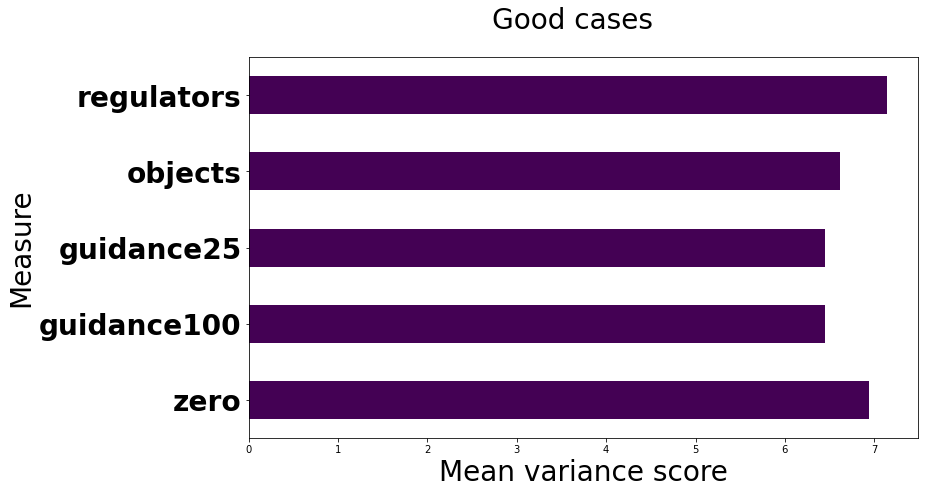
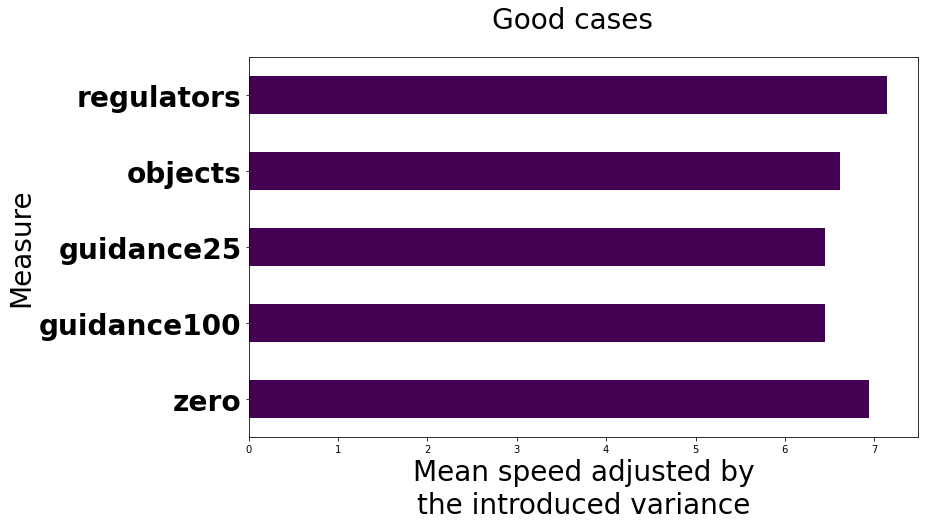
updated some figure styling

diff --git a/analysis/control_exploration_results.py b/analysis/control_exploration_results.py
@@ -2,7 +2,8 @@ import matplotlib.pyplot as plt
 import pandas as pd
 from ema_workbench import load_results
 
-from robustness import calculate_robustness_averted, calculate_robustness_mean_variance
+from robustness import (calculate_robustness_averted,
+                        calculate_robustness_mean_variance)
 
 if __name__ == "__main__":
 
@@ -356,7 +357,7 @@ if __name__ == "__main__":
         ax=ax, colormap="viridis", rot=0
     ).legend(bbox_to_anchor=(0.25, 1.25), prop={"size": 20})
     fig.suptitle("Problematic cases \n robustness: total averted", fontsize=22)
-    ax.set_xlabel("Total count", fontsize=22)
+    ax.set_xlabel("Total count (out of 100 cases)", fontsize=22)
     ax.set_ylabel(ylabel="Measure", fontsize=22)
     plt.yticks(fontsize=22, weight="bold")
     fig.savefig("../figures/controlStrategiesAvertedS1.png", bbox_inches="tight")
@@ -366,7 +367,7 @@ if __name__ == "__main__":
         ax=ax, colormap="viridis", rot=0
     ).legend(bbox_to_anchor=(0.25, 1.25), prop={"size": 20})
     fig.suptitle("Good cases \n robustness: total averted", fontsize=22)
-    ax.set_xlabel("Total count", fontsize=22)
+    ax.set_xlabel("Total count (out of 100 cases)", fontsize=22)
     ax.set_ylabel(ylabel="Measure", fontsize=22)
     plt.yticks(fontsize=22, weight="bold")
     fig.savefig("../figures/controlStrategiesAvertedS2.png", bbox_inches="tight")
@@ -376,7 +377,7 @@ if __name__ == "__main__":
         ax=ax, colormap="viridis", rot=0
     ).legend(bbox_to_anchor=(0.25, 1.25), prop={"size": 20})
     fig.suptitle("worst cases", fontsize=22)
-    ax.set_xlabel("Total count", fontsize=22)
+    ax.set_xlabel("Total count (out of 10 cases)", fontsize=22)
     ax.set_ylabel(ylabel="Measure", fontsize=22)
     plt.yticks(fontsize=22, weight="bold")
     fig.savefig("../figures/controlStrategiesAvertedS3.png", bbox_inches="tight")
@@ -387,7 +388,7 @@ if __name__ == "__main__":
         ax=ax, colormap="viridis", rot=0, legend=False
     )
     fig.suptitle("Problematic cases", fontsize=28)
-    ax.set_xlabel("Mean variance score", fontsize=28)
+    ax.set_xlabel("Mean speed adjusted by\nthe introduced variance", fontsize=28)
     ax.set_ylabel("Measure", fontsize=28)
     plt.yticks(fontsize=28, weight="bold")
     fig.savefig(
@@ -398,7 +399,7 @@ if __name__ == "__main__":
         ax=ax, colormap="viridis", rot=0, legend=False
     )
     fig.suptitle("Good cases", fontsize=28)
-    ax.set_xlabel("Mean variance score", fontsize=28)
+    ax.set_xlabel("Mean speed adjusted by\nthe introduced variance", fontsize=28)
     ax.set_ylabel("Measure", fontsize=28)
     plt.yticks(fontsize=28, weight="bold")
     fig.savefig(
@@ -409,7 +410,7 @@ if __name__ == "__main__":
         ax=ax, colormap="viridis", rot=0, legend=False
     )
     fig.suptitle("worst cases", fontsize=28)
-    ax.set_xlabel("Mean variance score", fontsize=28)
+    ax.set_xlabel("Mean speed adjusted by\nthe introduced variance", fontsize=28)
     ax.set_ylabel("Measure", fontsize=28)
     plt.yticks(fontsize=28, weight="bold")
     fig.savefig(
@@ -429,7 +430,7 @@ if __name__ == "__main__":
     d1.plot.bar(ax=ax, colormap="viridis", rot=0).legend(prop={"size": 20})
     fig.suptitle("Problematic cases", fontsize=28)
     ax.set_xlabel("Measure", fontsize=28)
-    ax.set_ylabel("Mean variance score", fontsize=28)
+    ax.set_ylabel("Mean density adjusted by\nthe introduced variance", fontsize=28)
     plt.xticks(fontsize=28, weight="bold")
     fig.savefig(
         "../figures/controlStrategiesMeanVarianceMaxDensityS1.png", bbox_inches="tight"
@@ -446,7 +447,7 @@ if __name__ == "__main__":
     d2.plot.bar(ax=ax, colormap="viridis", rot=0).legend(prop={"size": 20})
     fig.suptitle("Good cases", fontsize=28)
     ax.set_xlabel("Measure", fontsize=28)
-    ax.set_ylabel("Mean variance score", fontsize=28)
+    ax.set_ylabel("Mean density adjusted by\nthe introduced variance", fontsize=28)
     plt.xticks(fontsize=28, weight="bold")
     fig.savefig(
         "../figures/controlStrategiesMeanVarianceMaxDensityS2.png", bbox_inches="tight"
@@ -463,7 +464,7 @@ if __name__ == "__main__":
     d3.plot.bar(ax=ax, colormap="viridis", rot=0).legend(prop={"size": 20})
     fig.suptitle("Worst cases", fontsize=28)
     ax.set_xlabel("Measure", fontsize=28)
-    ax.set_ylabel("Mean variance score", fontsize=28)
+    ax.set_ylabel("Mean density adjusted by\nthe introduced variance", fontsize=28)
     plt.xticks(fontsize=28, weight="bold")
     fig.savefig(
         "../figures/controlStrategiesMeanVarianceMaxDensityS3.png", bbox_inches="tight"
